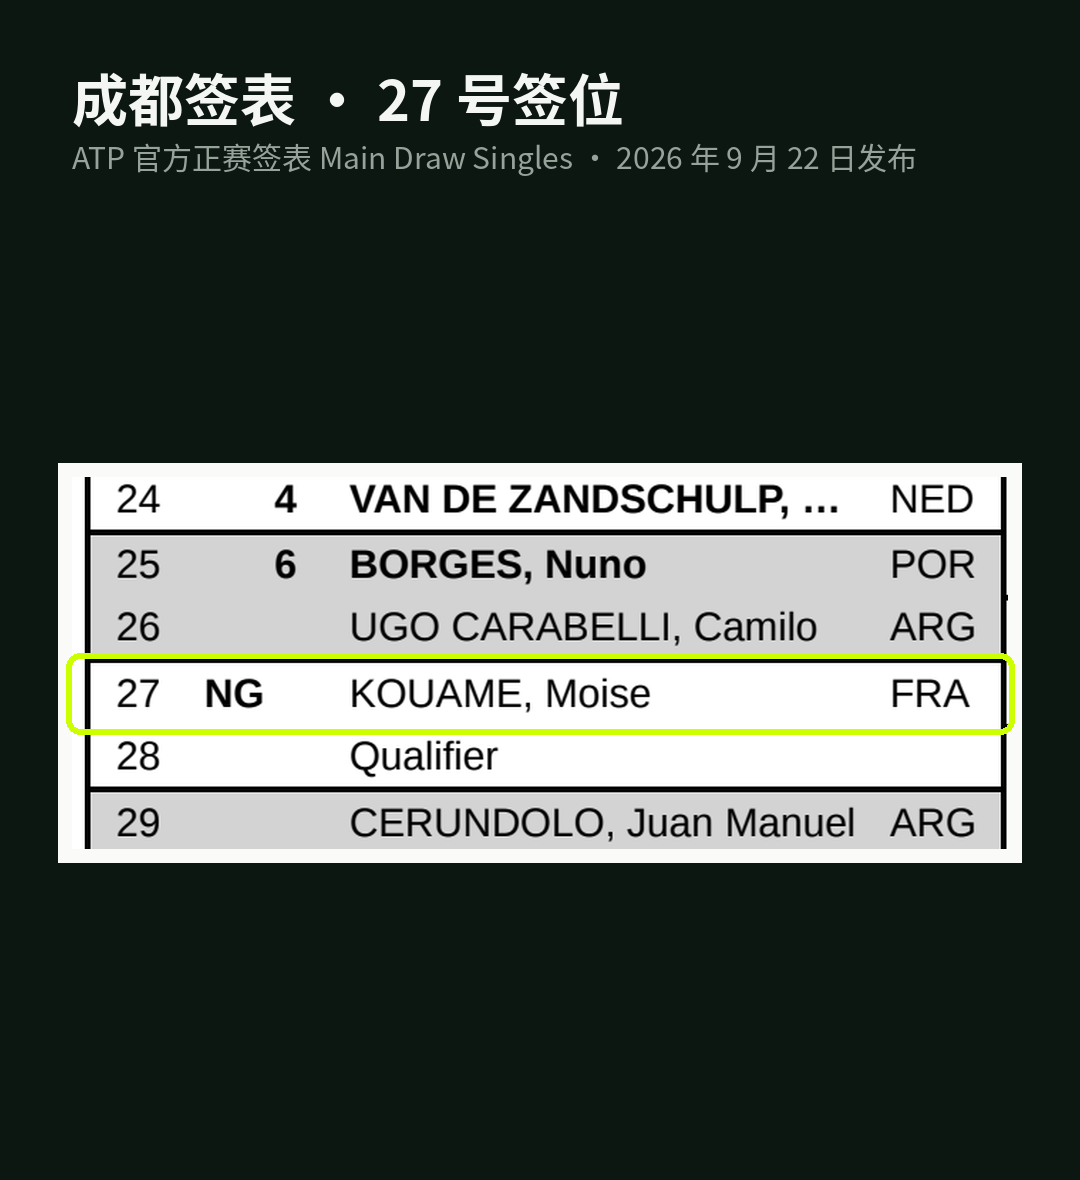
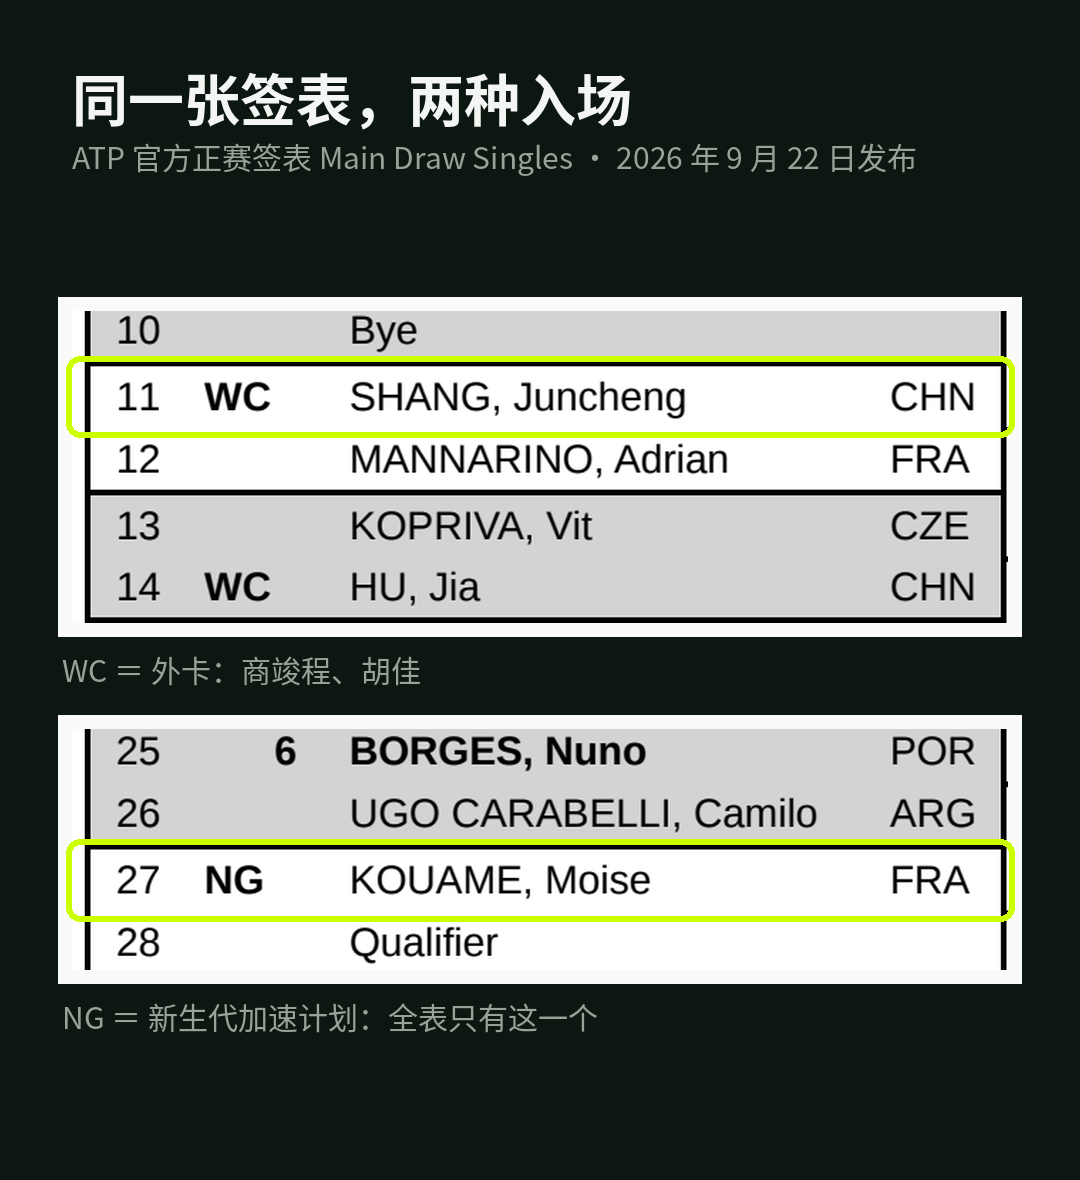
封面钩子承诺的对照，补进第 ① 屏：外卡那一格 vs NG 那一格
封面写的是「别人拿外卡进来／他走的是另一扇门」，而第一版的签表卡只裁了 27 号
签位那一块——整条片子从头到尾没让人看见「别人那一格」长什么样，钩子说了而
画面没兑现。

现在是两块：上面 11 号签位 `WC SHANG, Juncheng`（同屏还有 14 号的 `WC HU, Jia`），
下面 27 号签位 `NG KOUAME, Moise`，各自圈出来并配一行中文注。下面那一块仍然
留着第 25 行的种子号 6 和第 28 行的 Qualifier，「NG 不是种子号」的对照组也在
同一张图里。

来路：账号所有者发来 ATP 官方中文签表图（@ATP巡回赛），`[WC] 商竣程` 和
`[NG] 夸梅` 在同一张图上并排——一眼就看出第一版缺的是什么。**卡用的仍然是
官方 PDF 原件**，不是转发那张图（那张带台标，背景还是瓦舍罗的大头，和这条
片子的主角不是一个人）。

顺带两件事：
· 「全表只有这一个」查过了——32 行里带 NG 的只有第 27 行；WC 三个（11 商竣程、
  14 胡佳、30 周意），Qualifier 四个
· ATP 官方中文渠道印的就是「夸梅」，这是这个译名的第三个出处，和交接稿一致，
  和译名表里原来那条机器音译「库阿梅」不一致

卡从 5.2s 加到 6.6s：两块一起看需要时间，旁白 3.4s 之后还有 3.2s 让人读完
（哑场门槛 4.0s）。`--dry-run` 仍然全绿，成片 275.1s。

Claude-Session: https://claude.ai/code/session_01GtBacffcqxHgWakGS9sW1P

diff --git a/tools/make_chengdu_ng_cards.py b/tools/make_chengdu_ng_cards.py
@@ -161,13 +161,23 @@ def main() -> int:
     ap.add_argument("--show", action="store_true", help="顺手存一份缩略图")
     args = ap.parse_args()
 
-    # ① 成都 2026：27 号签位那一行印着 NG
-    piece, mark = _row_box(DRAWS / "chengdu-2026-mds.pdf", "KOUAME",
-                           up_pt=34, down_pt=24, mark_pt=3.5,
+    # ① 成都 2026：同一张签表上，外卡那一格和 NG 那一格
+    #
+    # ⚠ **两块一起放，是因为封面钩子承诺的就是这个对照**（「别人拿外卡进来／
+    # 他走的是另一扇门」）。第一版只裁了 27 号签位那一块，整条片子从头到尾
+    # 没让人看见「别人那一格」长什么样——钩子说了而画面没兑现。
+    # 账号所有者 2026-09-22 发来 ATP 官方中文签表图（[WC] 商竣程／[NG] 夸梅
+    # 并排）之后补的，用的仍然是官方 PDF 原件，不是转发那张图。
+    wc, wc_mark = _row_box(DRAWS / "chengdu-2026-mds.pdf", "SHANG",
+                           up_pt=12, down_pt=36, mark_pt=3.5,
                            x0_pt=12, x1_pt=170)
-    _card("成都签表 · 27 号签位",
+    ng, ng_mark = _row_box(DRAWS / "chengdu-2026-mds.pdf", "KOUAME",
+                           up_pt=23, down_pt=13, mark_pt=3.5,
+                           x0_pt=12, x1_pt=170)
+    _card("同一张签表，两种入场",
           "ATP 官方正赛签表 Main Draw Singles · 2026 年 9 月 22 日发布",
-          [(piece, mark, "")],
+          [(wc, wc_mark, "WC ＝ 外卡：商竣程、胡佳"),
+           (ng, ng_mark, "NG ＝ 新生代加速计划：全表只有这一个")],
           OUT / "draw-chengdu-ng.png")
 
     # ② 多哈 2024 / 布宜诺斯艾利斯 2025：同一个机制，签表上那一格是空的
